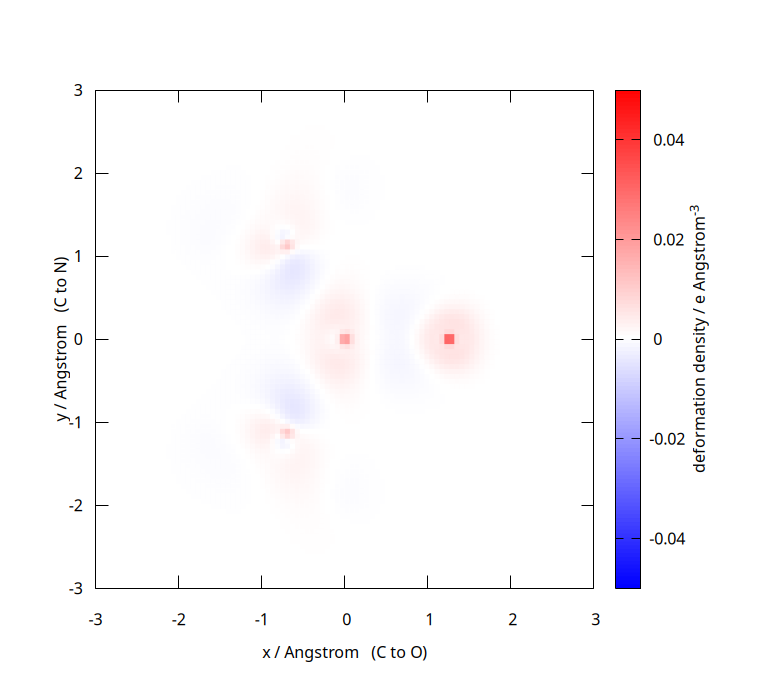
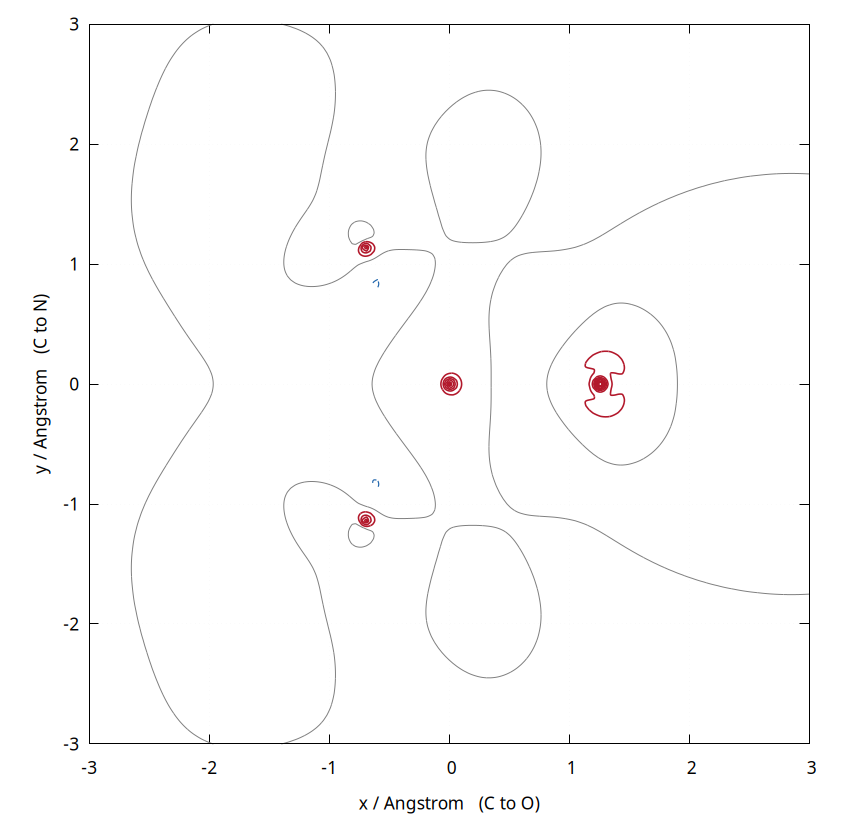
WORKSHOP: contour maps for the deformation density, on a 201x201 grid
Dylan: the grid was too coarse and it should be contoured. Both fixed.

The job now uses n_points= 201 rather than 101 (the run time is unchanged at
45 s -- the SCF dominates, not the grid). deformation.gnuplot draws a proper
contour map instead of a pixel map: solid red where density was gained,
dashed blue where it was lost, grey for zero, 0.05 e/A^3 intervals.

Getting there took two failed approaches, and the script says why in its
header: gnuplot computes contours only while making a surface, and cannot
draw them over a pm3d map in one pass -- `unset surface` removes the map as
well, and a second `with lines` pass draws the data mesh, not contours. So
the script tables the contour lines first and draws them as ordinary lines,
split by sign.

The difference map is drawn at 0.005 e/A^3, a tenth of the interval, because
that is the scale the constraint works on. The equation in the exercise also
now uses the same math-fence wrapper as the rest of the document: as a raw
$$...$$ block its second line began with "-", which markdown read as a list
and broke the rendering.

diff --git a/workshop/WORKSHOP.md b/workshop/WORKSHOP.md
@@ -988,8 +988,14 @@ here — put them beside exercise 2's and look for yourself.
 Exercises 2 and 3 asked the wavefunction a *number*: the bond indices. This
 one asks it for a *picture*. The **deformation density**
 
-$$\rho_{\mathrm{def}}(\boldsymbol{r}) = \rho_{\mathrm{molecule}}(\boldsymbol{r})
-- \sum_A \rho_A^{0}(\boldsymbol{r} - \boldsymbol{r}_A)$$
+<div align="center">
+
+```math
+\rho_{\mathrm{def}}(\boldsymbol{r}) = \rho_{\mathrm{molecule}}(\boldsymbol{r})
+   - \sum_A \rho_A^{0}(\boldsymbol{r} - \boldsymbol{r}_A)
+```
+
+</div>
 
 is the molecular density minus a sum of spherical free-atom densities — what
 the electrons did when the atoms formed bonds. It is positive in the bonds and
@@ -1040,8 +1046,10 @@ of numbers:
 book-keeping quirk of the name, not of the calculation. The wavefunction is
 the λ = 0.001 one.)*
 
-The file holds one value per line, in 101 rows of 101 separated by blank
-lines. `deformation.gnuplot` in this directory turns either into a picture.
+The file holds one value per line, in 201 rows of 201 separated by blank
+lines. `deformation.gnuplot` in this directory turns either into a contour
+map — solid red where density was gained, dashed blue where it was lost, grey
+for the zero contour, at 0.05 e Å⁻³ intervals.
 **In a terminal**, type:
 
 ```bash
@@ -1072,14 +1080,17 @@ and the difference is a twentieth of the deformation density itself:
 paste -d' ' urea_deformation.deformation_density_grid,gnuplot \
             urea_deformation,lambda=0.002000.deformation_density_grid,gnuplot \
   | awk 'NF==0{print ""; next} {printf "%15.6E\n", $2-$1}' > difference.dat
-gnuplot -e "f='difference.dat'; out='difference.png'; c=0.05" deformation.gnuplot
+gnuplot -e "f='difference.dat'; out='difference.png'; d=0.005; c=0.05" deformation.gnuplot
 ```
+
+`d` is the contour interval: ten times finer here, because the differences
+are ten times smaller.
 
 ![Constrained minus unconstrained](images/deformation-difference.png)
 
-Note the colour scale: ±0.05 e Å⁻³, against ±0.5 for the maps above. The
-constraint puts density **back at the carbon and oxygen nuclei** and takes it
-**out of the C–N bonding region**. That is the same story the bond indices told
+Note the contour interval: 0.005 e Å⁻³, a tenth of the maps above. The
+constraint puts density **back at the carbon and oxygen nuclei**, and the
+zero contour shows where it came from — the region beyond the C–N bonds. That is the same story the bond indices told
 in exercise 3 — the ionic index of the polar bonds fell — now in real space.
 
 ### Things to try next
